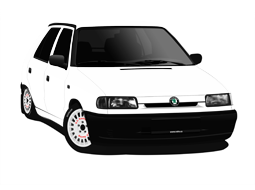
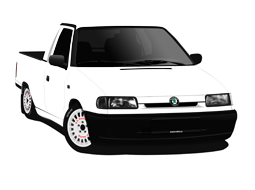
Migration fix

Changed region(s): [[0.0549, 0.1053, 0.2471, 0.3421], [0.0549, 0.3158, 0.1373, 0.5], [0.1098, 0.3421, 0.1373, 0.3947]]

diff --git a/web/assets/css/darkCherry_theme.css b/web/assets/css/darkCherry_theme.css
@@ -637,7 +637,7 @@ article h3.post-title {
     #article-detail .colors-table .color-sample .car-overlay.old {
       background-image: url("../../../images/layout/felicia_old.png"); }
     #article-detail .colors-table .color-sample .car-overlay.pickup {
-      background-image: url("../../../images/layout/felicia_old.png"); }
+      background-image: url("../../../images/layout/felicia_pickup.png"); }
     #article-detail .colors-table .color-sample .car-overlay.new {
       background-image: url("../../../images/layout/felicia_new.png"); }
   #article-detail .colors-table .color-sample.in {

diff --git a/web/assets/css/darkEmerald_theme.css b/web/assets/css/darkEmerald_theme.css
@@ -637,7 +637,7 @@ article h3.post-title {
     #article-detail .colors-table .color-sample .car-overlay.old {
       background-image: url("../../../images/layout/felicia_old.png"); }
     #article-detail .colors-table .color-sample .car-overlay.pickup {
-      background-image: url("../../../images/layout/felicia_old.png"); }
+      background-image: url("../../../images/layout/felicia_pickup.png"); }
     #article-detail .colors-table .color-sample .car-overlay.new {
       background-image: url("../../../images/layout/felicia_new.png"); }
   #article-detail .colors-table .color-sample.in {

diff --git a/web/assets/css/darkObsidian_theme.css b/web/assets/css/darkObsidian_theme.css
@@ -637,7 +637,7 @@ article h3.post-title {
     #article-detail .colors-table .color-sample .car-overlay.old {
       background-image: url("../../../images/layout/felicia_old.png"); }
     #article-detail .colors-table .color-sample .car-overlay.pickup {
-      background-image: url("../../../images/layout/felicia_old.png"); }
+      background-image: url("../../../images/layout/felicia_pickup.png"); }
     #article-detail .colors-table .color-sample .car-overlay.new {
       background-image: url("../../../images/layout/felicia_new.png"); }
   #article-detail .colors-table .color-sample.in {

diff --git a/web/assets/css/darkSky_theme.css b/web/assets/css/darkSky_theme.css
@@ -637,7 +637,7 @@ article h3.post-title {
     #article-detail .colors-table .color-sample .car-overlay.old {
       background-image: url("../../../images/layout/felicia_old.png"); }
     #article-detail .colors-table .color-sample .car-overlay.pickup {
-      background-image: url("../../../images/layout/felicia_old.png"); }
+      background-image: url("../../../images/layout/felicia_pickup.png"); }
     #article-detail .colors-table .color-sample .car-overlay.new {
       background-image: url("../../../images/layout/felicia_new.png"); }
   #article-detail .colors-table .color-sample.in {

diff --git a/web/assets/css/lightCherry_theme.css b/web/assets/css/lightCherry_theme.css
@@ -637,7 +637,7 @@ article h3.post-title {
     #article-detail .colors-table .color-sample .car-overlay.old {
       background-image: url("../../../images/layout/felicia_old.png"); }
     #article-detail .colors-table .color-sample .car-overlay.pickup {
-      background-image: url("../../../images/layout/felicia_old.png"); }
+      background-image: url("../../../images/layout/felicia_pickup.png"); }
     #article-detail .colors-table .color-sample .car-overlay.new {
       background-image: url("../../../images/layout/felicia_new.png"); }
   #article-detail .colors-table .color-sample.in {

diff --git a/web/assets/css/lightEmerald_theme.css b/web/assets/css/lightEmerald_theme.css
@@ -637,7 +637,7 @@ article h3.post-title {
     #article-detail .colors-table .color-sample .car-overlay.old {
       background-image: url("../../../images/layout/felicia_old.png"); }
     #article-detail .colors-table .color-sample .car-overlay.pickup {
-      background-image: url("../../../images/layout/felicia_old.png"); }
+      background-image: url("../../../images/layout/felicia_pickup.png"); }
     #article-detail .colors-table .color-sample .car-overlay.new {
       background-image: url("../../../images/layout/felicia_new.png"); }
   #article-detail .colors-table .color-sample.in {

diff --git a/web/assets/css/lightSky_theme.css b/web/assets/css/lightSky_theme.css
@@ -637,7 +637,7 @@ article h3.post-title {
     #article-detail .colors-table .color-sample .car-overlay.old {
       background-image: url("../../../images/layout/felicia_old.png"); }
     #article-detail .colors-table .color-sample .car-overlay.pickup {
-      background-image: url("../../../images/layout/felicia_old.png"); }
+      background-image: url("../../../images/layout/felicia_pickup.png"); }
     #article-detail .colors-table .color-sample .car-overlay.new {
       background-image: url("../../../images/layout/felicia_new.png"); }
   #article-detail .colors-table .color-sample.in {

diff --git a/web/assets/scss/pages/_article.scss b/web/assets/scss/pages/_article.scss
@@ -79,7 +79,7 @@
         }
 
         &.pickup {
-          background-image: url('../../../images/layout/felicia_old.png');
+          background-image: url('../../../images/layout/felicia_pickup.png');
         }
 
         &.new {

diff --git a/src/AppBundle/Controller/Frontend/SearchController.php b/src/AppBundle/Controller/Frontend/SearchController.php
@@ -35,6 +35,9 @@ class SearchController extends Controller
 
         if ($form->isSubmitted() && $form->isValid()) {
             $data = $form->getData();
+            if (strlen($data['query']) < 3) {
+                $this->addFlash('warning', 'Hledaný výraz musí být alespoň 3 znaky dlouhý.');
+            }
             return $this->redirectToRoute('frontend_search_result', array('query' => $data['query']));
         }
 
